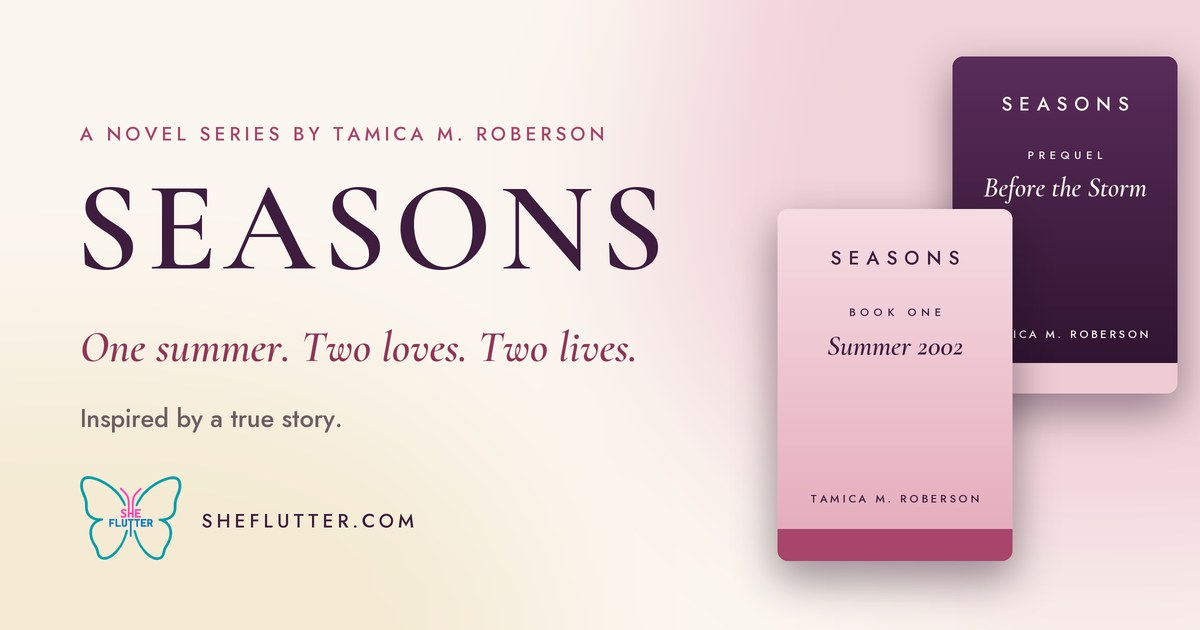
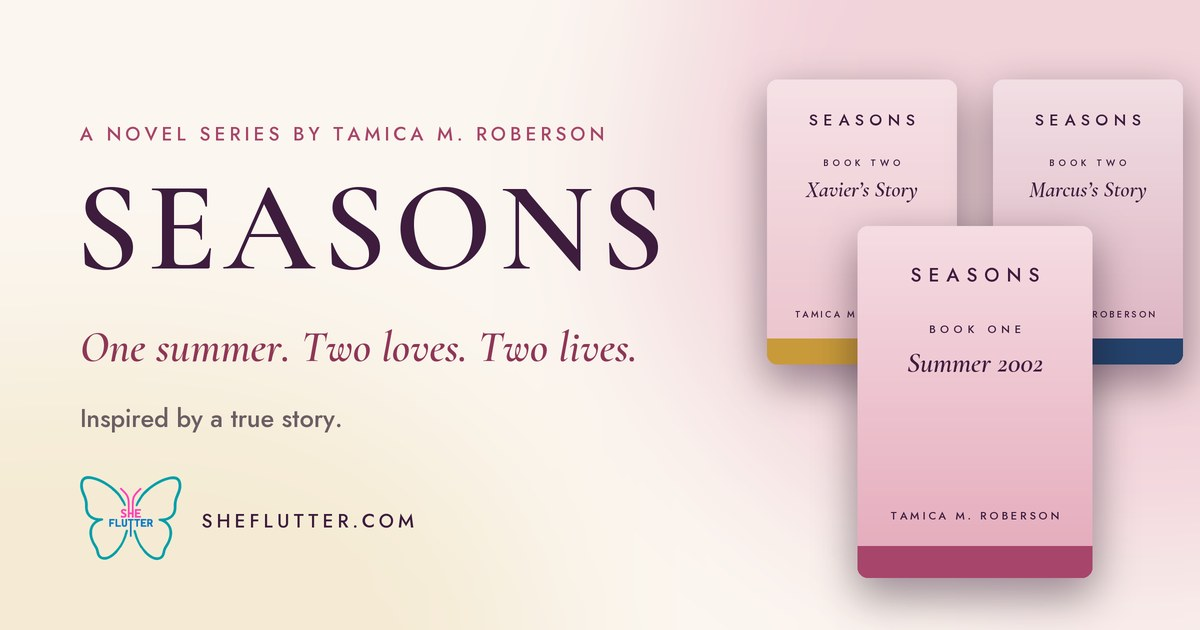
Make Book One the free first read; hold the prequel for later
Book One, Summer 2002 is now the free signup gift and the first step
in the reading order. Before the Storm stays in the data but off the
site until it is introduced after the series, so it can't color
readers' view of Xavier and Marcus. The home hero now fans both Book
Twos behind Book One, and the share image matches.

Changed region(s): [[0.6167, 0.0905, 0.9867, 0.9952]]

diff --git a/src/_data/books.js b/src/_data/books.js
@@ -1,5 +1,5 @@
 // Every book in SEASONS. Edit status lines and add store links here as books release.
-// line: "prequel" | "shared" | "xavier" | "marcus"
+// line: "shared" | "xavier" | "marcus" | "prequel"
 // page: true gives the book its own page at /books/<slug>/
 // links: { amazon: "", books2read: "" }  The first non-empty link becomes the buy button.
 
@@ -11,37 +11,42 @@ const contentNotes = [
   "Gun violence",
 ];
 
-const all = [
-  {
-    slug: "before-the-storm",
-    line: "prequel",
-    label: "Prequel",
-    title: "Before the Storm",
-    season: "Summer 1999",
-    status: "Free for Letters subscribers",
-    page: true,
-    blurb: [
-      "Summer 1999. Imani is twenty when a bee gets into her apartment and a stranger catches it. Marcus Carter is twenty-five. He comes back to fix her screen, and then he keeps coming back.",
-      "Before the Storm is the prequel to SEASONS: how Imani met the man who would teach her what she was worth, and what it cost her to learn it.",
-    ],
-    links: {},
-  },
-  {
-    slug: "book-one-summer-2002",
-    line: "shared",
-    label: "Book One",
-    title: "Summer 2002",
-    season: "Summer 2002",
-    status: "Coming spring 2027",
-    page: true,
-    blurb: [
-      "Summer 2002. Galveston. Imani is twenty-three and has spent her whole life bracing for the next blow. Xavier is twenty-two, quiet and steady, and he says one word like he means it: forever.",
-      "A girl raised in the furnace does not trust anything that warm. And the past is not finished with her yet.",
-      "Book One is where SEASONS begins, and where it splits in two.",
-    ],
-    links: {},
-  },
-];
+// Book One is the free first read, and the way into both series.
+const bookOne = {
+  slug: "book-one-summer-2002",
+  line: "shared",
+  label: "Book One",
+  title: "Summer 2002",
+  season: "Summer 2002",
+  status: "Free for Letters subscribers, early 2027",
+  page: true,
+  blurb: [
+    "Summer 2002. Galveston. Imani is twenty-three and has spent her whole life bracing for the next blow. Xavier is twenty-two, quiet and steady, and he says one word like he means it: forever.",
+    "A girl raised in the furnace does not trust anything that warm. And the past is not finished with her yet.",
+    "Book One is where SEASONS begins, and where it splits in two.",
+  ],
+  links: {},
+};
+
+// The prequel arrives after the series, so readers meet Xavier and Marcus in Book One
+// without it coloring their choice. It stays off the site until then:
+// to introduce it, move it into the `all` list below and set page: true.
+const prequel = {
+  slug: "before-the-storm",
+  line: "prequel",
+  label: "Prequel",
+  title: "Before the Storm",
+  season: "Summer 1999",
+  status: "Arrives after the series",
+  page: false,
+  blurb: [
+    "Summer 1999. Imani is twenty when a bee gets into her apartment and a stranger catches it. Marcus Carter is twenty-five. He comes back to fix her screen, and then he keeps coming back.",
+    "Before the Storm is the prequel to SEASONS: how Imani met the man who would teach her what she was worth, and what it cost her to learn it.",
+  ],
+  links: {},
+};
+
+const all = [bookOne];
 
 const numbers = ["Two", "Three", "Four", "Five", "Six", "Seven", "Eight"];
 for (const line of ["xavier", "marcus"]) {
@@ -61,6 +66,8 @@ for (const line of ["xavier", "marcus"]) {
 export default {
   contentNotes,
   all,
+  bookOne,
+  prequel,
   pages: all.filter((b) => b.page),
   lines: {
     xavier: {

diff --git a/src/assets/css/site.css b/src/assets/css/site.css
@@ -282,18 +282,21 @@ p { margin: 0 0 1em; }
 .hero__note em { font-family: var(--serif); font-size: 1.15rem; color: var(--plum); }
 .dot { width: 8px; height: 8px; border-radius: 50%; background: var(--rose); box-shadow: 0 0 0 5px rgba(168, 69, 106, 0.18); flex: none; }
 
-.hero__art { position: relative; min-height: 520px; }
-.hero__cover { position: absolute; width: min(56%, 250px); text-decoration: none; transition: transform 0.35s ease; }
-.hero__cover--back { right: 0; top: 0; transform: rotate(6deg); }
-.hero__cover--front { left: 0; top: 30%; transform: rotate(-5deg); z-index: 2; }
-.hero__cover--back:hover { transform: rotate(3deg) translateY(-6px); }
-.hero__cover--front:hover { transform: rotate(-2deg) translateY(-6px); }
-.hero__logo { position: absolute; width: 132px; left: 4%; top: -2%; z-index: 3; }
+/* Book One in front, with both Book Twos fanned behind it: one book, two lives. */
+.hero__art { position: relative; min-height: 540px; }
+.hero__cover { position: absolute; width: min(46%, 215px); text-decoration: none; transition: transform 0.35s ease; }
+.hero__cover--x { left: 0; top: 6%; transform: rotate(-9deg); }
+.hero__cover--m { right: 0; top: 6%; transform: rotate(9deg); }
+.hero__cover--front { width: min(54%, 250px); left: 0; right: 0; margin-inline: auto; top: 24%; transform: rotate(-1deg); z-index: 2; }
+.hero__cover--x:hover { transform: rotate(-6deg) translateY(-6px); }
+.hero__cover--m:hover { transform: rotate(6deg) translateY(-6px); }
+.hero__cover--front:hover { transform: rotate(0deg) translateY(-6px); }
+.hero__logo { position: absolute; width: 112px; left: 0; right: 0; margin-inline: auto; top: -5%; z-index: 3; }
 
 @media (max-width: 880px) {
   .hero__grid { grid-template-columns: 1fr; }
-  .hero__art { min-height: 400px; max-width: 360px; margin-inline: auto; width: 100%; }
-  .hero__cover { width: 54%; }
+  .hero__art { min-height: 430px; max-width: 380px; margin-inline: auto; width: 100%; }
+  .hero__logo { width: 92px; }
 }
 
 /* ---------- Covers (typographic stand-ins until real cover art exists) ---------- */
